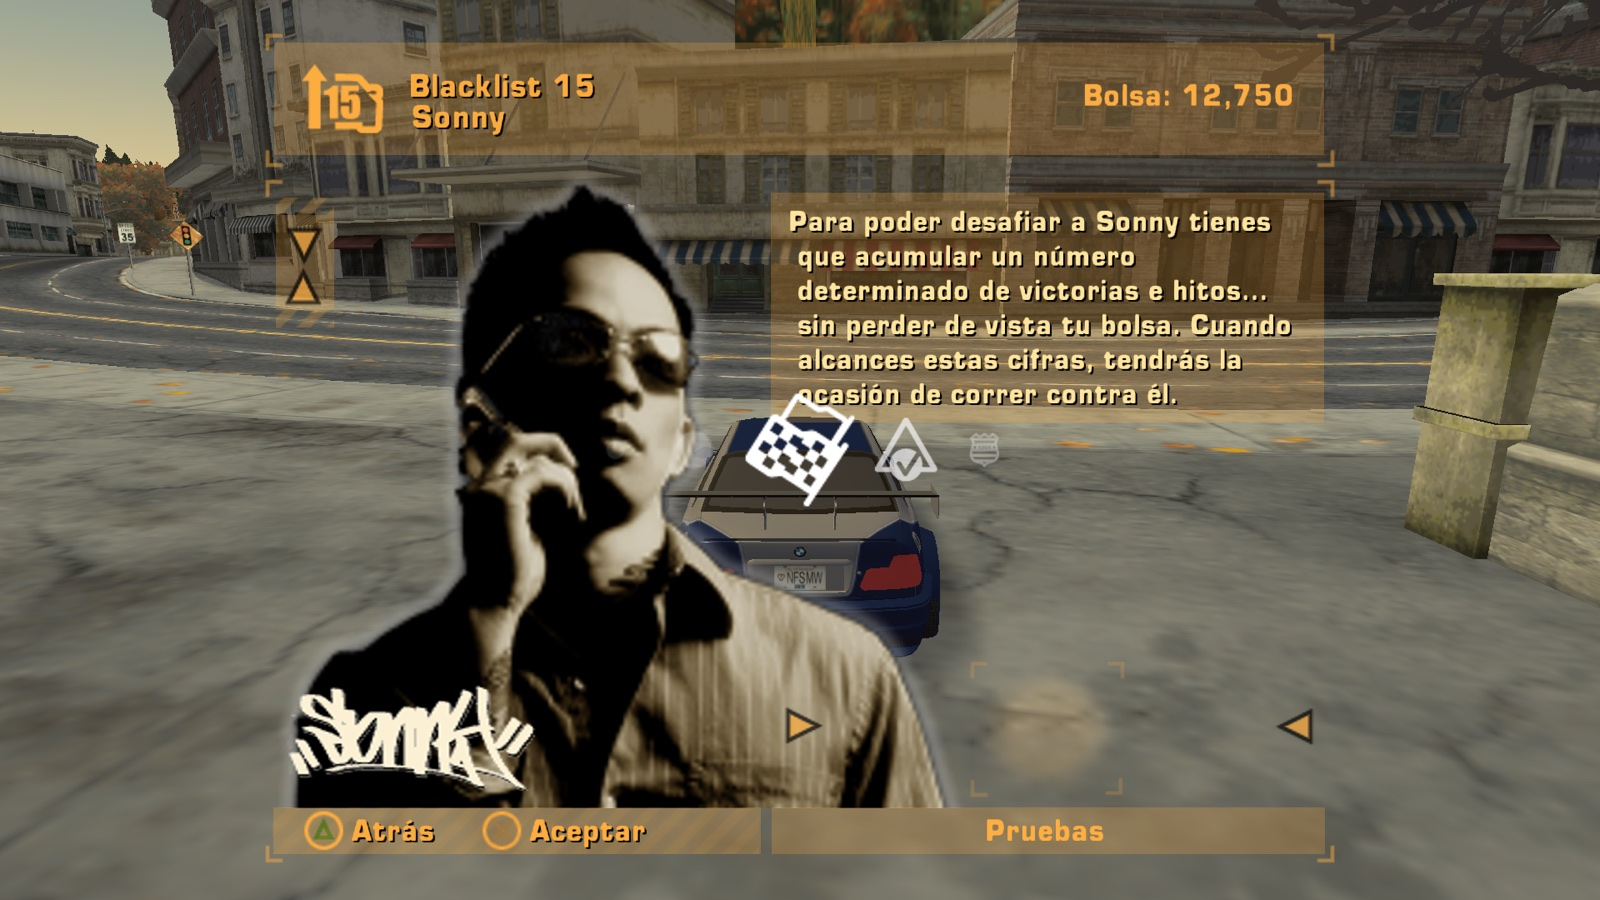
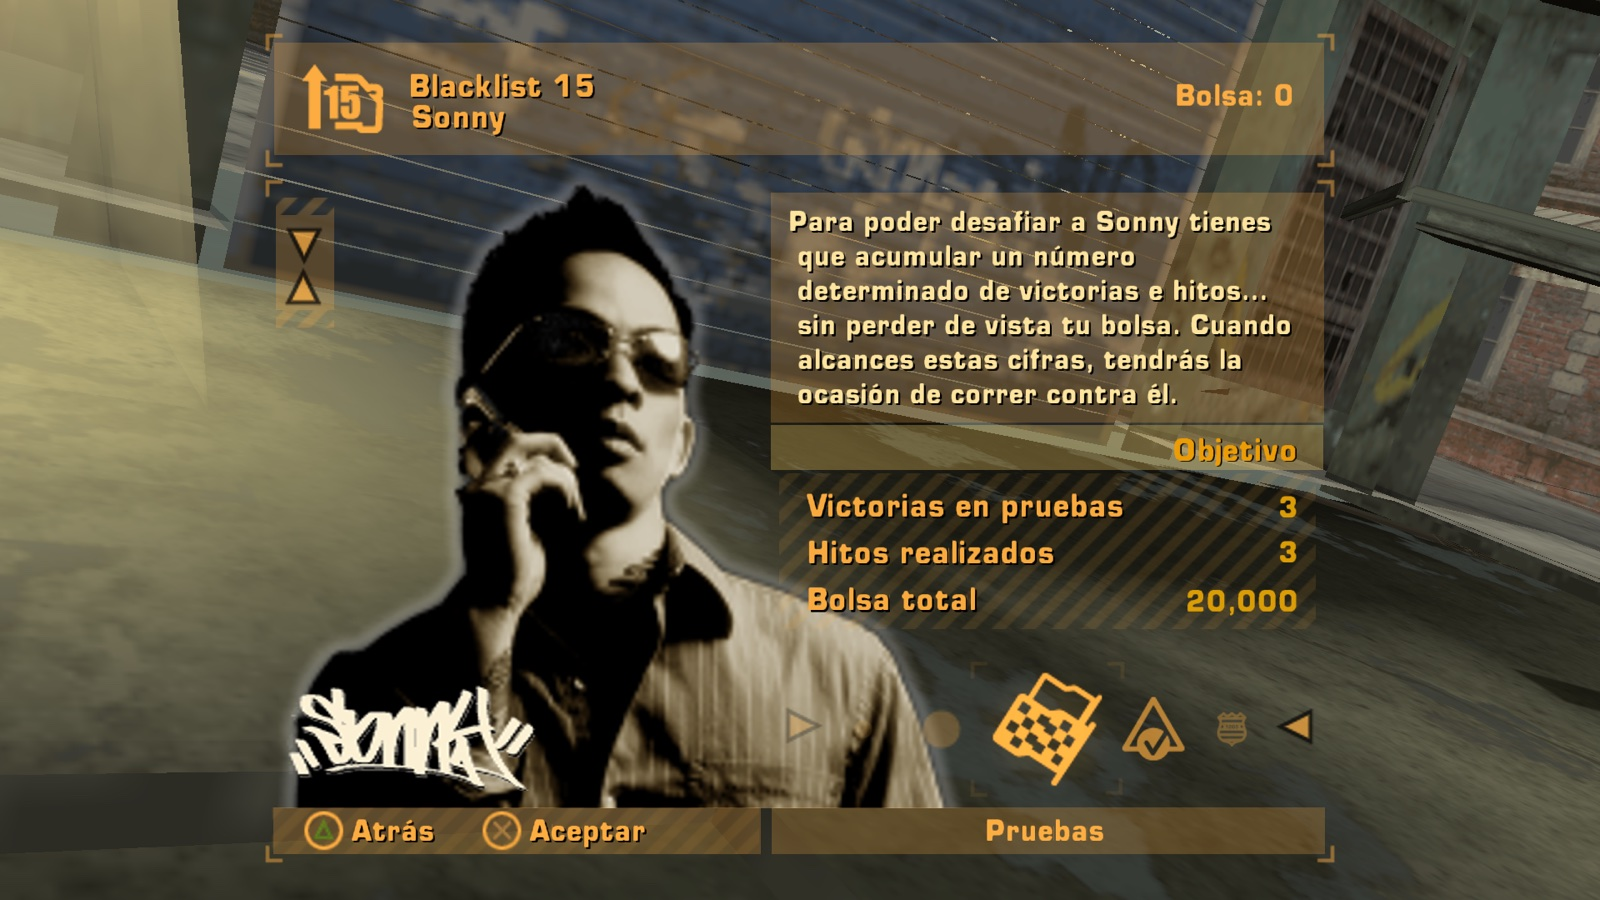
v0.5: garajes sin carga en el motor nativo (refugio, concesionario, taller de tuneo), menú con el escenario original y tu coche, carrusel e iconos como el original, Lista Negra con requisitos; sonido original; carrera rápida y multijugador; README con capturas nuevas

diff --git a/site/index.html b/site/index.html
@@ -174,8 +174,8 @@
     <p class="lede rise">
       <span data-es>Need for Speed: Most Wanted (2005), funcionando de forma nativa en macOS con Metal. Lo construyes tú desde <b>tu propia ISO de PS2</b>: el instalador detecta si es PAL (SLES-53559) o NTSC-U (SLUS-21351) y convierte el juego en tu Mac.</span>
       <span data-en>Need for Speed: Most Wanted (2005), running natively on macOS with Metal. You build it from <b>your own PS2 ISO</b>: the installer detects PAL (SLES-53559) or NTSC-U (SLUS-21351) and converts the game on your Mac.</span>
-      <small data-es>Proyecto abierto de ingeniería inversa. No incluye ni distribuye datos del juego. Versión 0.4 · Mac con Apple Silicon, macOS 14+.</small>
-      <small data-en>Open reverse-engineering project. It does not include or distribute game data. Version 0.4 · Apple Silicon Mac, macOS 14+.</small>
+      <small data-es>Proyecto abierto de ingeniería inversa. No incluye ni distribuye datos del juego. Versión 0.5 · Mac con Apple Silicon, macOS 14+.</small>
+      <small data-en>Open reverse-engineering project. It does not include or distribute game data. Version 0.5 · Apple Silicon Mac, macOS 14+.</small>
     </p>
     <div class="cta rise">
       <a class="btn solid" href="https://github.com/pablonolascoo/nfs-mw-2005-ps2-port/releases/latest"><i class="ph-bold ph-download-simple"></i> <span data-es>Descargar para Mac</span><span data-en>Download for Mac</span></a>

diff --git a/README.md b/README.md
@@ -4,7 +4,7 @@
 
 <a href="https://rockport-native.vercel.app"><img src="site/img/banner.jpg" alt="Rockport Native: el BMW M3 GTR de Most Wanted en el motor nativo de macOS" width="100%"></a>
 
-<p align="center"><b><a href="https://github.com/pablonolascoo/nfs-mw-2005-ps2-port/releases/latest">⬇ Descargar para Mac (v0.4)</a></b> · <a href="https://rockport-native.vercel.app">🌐 Página del proyecto</a> · <a href="#guía-de-uso">Guía de uso</a> · <a href="#la-ampliación-rust-belt">La expansión</a> · <a href="ROADMAP.md">Hoja de ruta</a> · <a href="CONTRIBUTING.md">Colaborar</a> · <a href="CONTEXT.md">Contexto</a></p>
+<p align="center"><b><a href="https://github.com/pablonolascoo/nfs-mw-2005-ps2-port/releases/latest">⬇ Descargar para Mac (v0.5)</a></b> · <a href="https://rockport-native.vercel.app">🌐 Página del proyecto</a> · <a href="#guía-de-uso">Guía de uso</a> · <a href="#la-ampliación-rust-belt">La expansión</a> · <a href="ROADMAP.md">Hoja de ruta</a> · <a href="CONTRIBUTING.md">Colaborar</a> · <a href="CONTEXT.md">Contexto</a></p>
 
 **Proyecto abierto de decompilación e ingeniería inversa** del *Need for Speed: Most Wanted* (2005) de **PlayStation 2**. Leemos tu propia ISO, entendemos cada formato y cada sistema del juego (con ayuda de la decomp [dbalatoni13/nfsmw](https://github.com/dbalatoni13/nfsmw)) y lo volvemos a montar como **juego nativo**, fiel al original: misma ciudad, mismos coches, misma interfaz, mismo tono cálido de PS2.
 
@@ -17,7 +17,7 @@ Y después, **lo ampliamos**: una expansión que continúa la historia como si l
 | | Qué | Estado |
 |---|---|---|
 | 🔬 **Decompilación** | Formatos del disco, base de datos, física, IA, interfaz, audio… todo documentado en [`docs/`](docs/es) con cada dato etiquetado ([V] verificado, [D] decomp, [I] inferido, [H] hipótesis) | ✅ muy avanzada |
-| 🖥 **Port nativo** | Motor propio que juega Rockport desde tu ISO, sin emulador | ✅ jugable en Mac (v0.4) |
+| 🖥 **Port nativo** | Motor propio que juega Rockport desde tu ISO, sin emulador | ✅ jugable en Mac (v0.5) |
 | 🗺 **Expansión «Rust Belt»** | 4 distritos nuevos, Lista Negra 2, coches clásicos, la historia continúa | 🧭 diseñada, [ver abajo](#la-ampliación-rust-belt) |
 
 ### Plataformas
@@ -43,6 +43,8 @@ Al vencer a Razor se abre un condado industrial del Rust Belt alrededor de Rockp
 | Carrera con el HUD original | Persecución con la policía |
 |---|---|
 | <img src="site/img/carrera.jpg" alt="Carrera sprint con el HUD original y las vallas de la prueba"> | <img src="site/img/persecucion.jpg" alt="Persecución con el HUD original y el radar"> |
+| **Menú principal original, con tu coche** | **Taller de tuneo sin pantallas de carga** |
+| <img src="site/img/menu.jpg" alt="Menú principal original con el BMW M3 GTR"> | <img src="site/img/taller.jpg" alt="Taller de tuneo: pintura del BMW"> |
 | **Resultados de la carrera** | **Pantalla de la Lista Negra** |
 | <img src="site/img/resultados.jpg" alt="Pantalla de resultados original"> | <img src="site/img/listanegra-pantalla.jpg" alt="Pantalla de la Lista Negra con Sonny, el #15"> |
 
@@ -72,7 +74,10 @@ Al vencer a Razor se abre un condado industrial del Rust Belt alrededor de Rockp
 | Voces originales y audio de escenas extraídos de tu disco (uso local) — [doc 16](docs/es/16-audio-y-voces.md) | ✅ |
 | **Carreras y Lista Negra jugables**: sprint, circuito, eliminación, drag, radar, peaje y desafíos; rivales con la IA del juego y sus coches; progresión 15 → 1, coches de rosa, candados de distrito y partida guardada — [doc 18](docs/es/18-carreras-y-lista-negra.md) | ✅ v0.4 |
 | **HUD 100 % original** con radar del juego, pantallas de carrera, resultados, Lista Negra y final de persecución — [doc 17](docs/es/17-interfaz.md) | ✅ v0.4 |
-| Garajes en el motor nativo, sonido de motor, películas, choques entre coches | 🔜 |
+| **Garajes sin pantallas de carga** en el motor nativo: se abre la puerta, entras, aparcas y salen los menús del refugio, el concesionario (comprar coches) y el taller (pintura, vinilos, llantas, alerones, kits, barra de luz) — [doc 07](docs/es/07-conduccion-y-garajes.md) | ✅ v0.5 |
+| **Sonido original**: motor de cada coche con la síntesis del juego, turbo, cambios, nitro, derrapes, golpes, sirenas y bocinas — [doc 16](docs/es/16-audio-y-voces.md) | ✅ v0.5 |
+| **Carrera rápida y pantalla partida** de 2 jugadores (original) y 3-4 (ampliación), varias pantallas, un mando por jugador — [doc 19](docs/es/19-carrera-rapida-y-multijugador.md) | ✅ v0.5 |
+| Películas, música, mapa de la carrera profesional, choques entre coches, helicóptero | 🔜 |
 
 ## Carrera rápida y pantalla partida
 

diff --git a/README.en.md b/README.en.md
@@ -4,7 +4,7 @@
 
 <a href="https://rockport-native.vercel.app"><img src="site/img/banner.jpg" alt="Rockport Native: the Most Wanted BMW M3 GTR in the native macOS engine" width="100%"></a>
 
-<p align="center"><b><a href="https://github.com/pablonolascoo/nfs-mw-2005-ps2-port/releases/latest">⬇ Download for Mac (v0.4)</a></b> · <a href="https://rockport-native.vercel.app">🌐 Project page</a> · <a href="#user-guide">User guide</a> · <a href="#the-rust-belt-expansion">The expansion</a> · <a href="ROADMAP.en.md">Roadmap</a> · <a href="CONTRIBUTING.md">Contribute</a> · <a href="CONTEXT.md">Context</a></p>
+<p align="center"><b><a href="https://github.com/pablonolascoo/nfs-mw-2005-ps2-port/releases/latest">⬇ Download for Mac (v0.5)</a></b> · <a href="https://rockport-native.vercel.app">🌐 Project page</a> · <a href="#user-guide">User guide</a> · <a href="#the-rust-belt-expansion">The expansion</a> · <a href="ROADMAP.en.md">Roadmap</a> · <a href="CONTRIBUTING.md">Contribute</a> · <a href="CONTEXT.md">Context</a></p>
 
 **An open decompilation and reverse-engineering project** for the **PlayStation 2** *Need for Speed: Most Wanted* (2005). We read your own ISO, understand every format and game system (helped by the [dbalatoni13/nfsmw](https://github.com/dbalatoni13/nfsmw) decomp) and rebuild it as a **native game**, faithful to the original: same city, same cars, same interface, same warm PS2 tone.
 
@@ -17,7 +17,7 @@ Then **we expand it**: an expansion that continues the story as if the same stud
 | | What | Status |
 |---|---|---|
 | 🔬 **Decompilation** | Disc formats, database, physics, AI, interface, audio… all documented in [`docs/`](docs/en), every fact tagged ([V] verified, [D] decomp, [I] inferred, [H] hypothesis) | ✅ well advanced |
-| 🖥 **Native port** | Own engine that plays Rockport from your ISO, no emulator | ✅ playable on Mac (v0.4) |
+| 🖥 **Native port** | Own engine that plays Rockport from your ISO, no emulator | ✅ playable on Mac (v0.5) |
 | 🗺 **"Rust Belt" expansion** | 4 new districts, Blacklist 2, classic cars, the story continues | 🧭 designed, [see below](#the-rust-belt-expansion) |
 
 ### Platforms
@@ -43,6 +43,8 @@ Beating Razor opens an industrial Rust Belt county around Rockport: **Millbrook*
 | Race with the original HUD | Police pursuit |
 |---|---|
 | <img src="site/img/carrera.jpg" alt="Sprint race with the original HUD and the event barriers"> | <img src="site/img/persecucion.jpg" alt="Pursuit with the original HUD and radar"> |
+| **Original main menu, with your car** | **Customization shop, no loading screens** |
+| <img src="site/img/menu.jpg" alt="Original main menu with the BMW M3 GTR"> | <img src="site/img/taller.jpg" alt="Customization shop: painting the BMW"> |
 | **Race results** | **Blacklist screen** |
 | <img src="site/img/resultados.jpg" alt="Original results screen"> | <img src="site/img/listanegra-pantalla.jpg" alt="Blacklist screen with Sonny, #15"> |
 
@@ -72,7 +74,10 @@ Beating Razor opens an industrial Rust Belt county around Rockport: **Millbrook*
 | Original voices and scene audio extracted from your disc (local use) — [doc 16](docs/en/16-audio-and-voices.md) | ✅ |
 | **Playable races and Blacklist**: sprint, circuit, knockout, drag, speedtrap, tollbooth and challenges; rivals with the game's AI and cars; 15 → 1 progression, pink slips, district padlocks and save game — [doc 18](docs/en/18-races-and-blacklist.md) | ✅ v0.4 |
 | **100 % original HUD** with the game's radar, race screens, results, Blacklist and pursuit endings — [doc 17](docs/en/17-interface.md) | ✅ v0.4 |
-| Garages in the native engine, engine sound, movies, car-to-car collisions | 🔜 |
+| **Garages without loading screens** in the native engine: the door opens, you drive in, park and get the safehouse, car lot (buy cars) and shop menus (paint, vinyls, rims, spoilers, kits, light bar) — [doc 07](docs/en/07-driving-and-garages.md) | ✅ v0.5 |
+| **Original sound**: each car's engine with the game's synthesis, turbo, shifts, nitrous, skids, impacts, sirens and horns — [doc 16](docs/en/16-audio-and-voices.md) | ✅ v0.5 |
+| **Quick Race and split screen**: 2 players (original) and 3-4 (extension), several displays, one controller per player — [doc 19](docs/en/19-quick-race-and-multiplayer.md) | ✅ v0.5 |
+| Movies, music, career map, car-to-car collisions, helicopter | 🔜 |
 
 ## Quick Race and split screen
 

diff --git a/native-engine/README.md b/native-engine/README.md
@@ -37,6 +37,10 @@ Se generan en `native-engine/.build/shots/` (no se suben a git):
 | `carside.png`, `car34.png` | El coche de lado y de tres cuartos (`--carcam`) |
 | `carwheel.png` | Rueda delantera de cerca: llanta, disco y pinza |
 | `aerial.png` | Toda la ciudad desde 900 m (nivel lejano) |
+| `garage/mainmenu-1920.png`, `-2940.png` | Menú principal con el garaje del frontend y el BMW (`--ui-test MainMenu`) |
+| `garage/safehouse-1920-1-fuera/2-dentro/3-aparcado.png` | Entrar conduciendo en el refugio 1: persiana, interior y menú (`--garage-test zone_safehouse_1`) |
+| `garage/customshop-paint-1920-3-aparcado.png`, `customshop-rims-…` | Taller: pintura y llantas montadas en el coche |
+| `garage/carlot-1920-3-aparcado.png` | Concesionario con precio y logotipos |
 
 ## Cómo se compila y se arranca
 

diff --git a/native-engine/README.en.md b/native-engine/README.en.md
@@ -37,6 +37,10 @@ Written to `native-engine/.build/shots/` (never committed):
 | `carside.png`, `car34.png` | The car from the side and three-quarter view (`--carcam`) |
 | `carwheel.png` | Front wheel close-up: rim, disc and caliper |
 | `aerial.png` | The whole city from 900 m (far level) |
+| `garage/mainmenu-1920.png`, `-2940.png` | Main menu with the front-end garage and the BMW (`--ui-test MainMenu`) |
+| `garage/safehouse-1920-1-fuera/2-dentro/3-aparcado.png` | Driving into safehouse 1: roller door, interior and menu (`--garage-test zone_safehouse_1`) |
+| `garage/customshop-paint-1920-3-aparcado.png`, `customshop-rims-…` | Shop: paint and rims fitted to the car |
+| `garage/carlot-1920-3-aparcado.png` | Car lot with price and logos |
 
 ## Build and run
 
